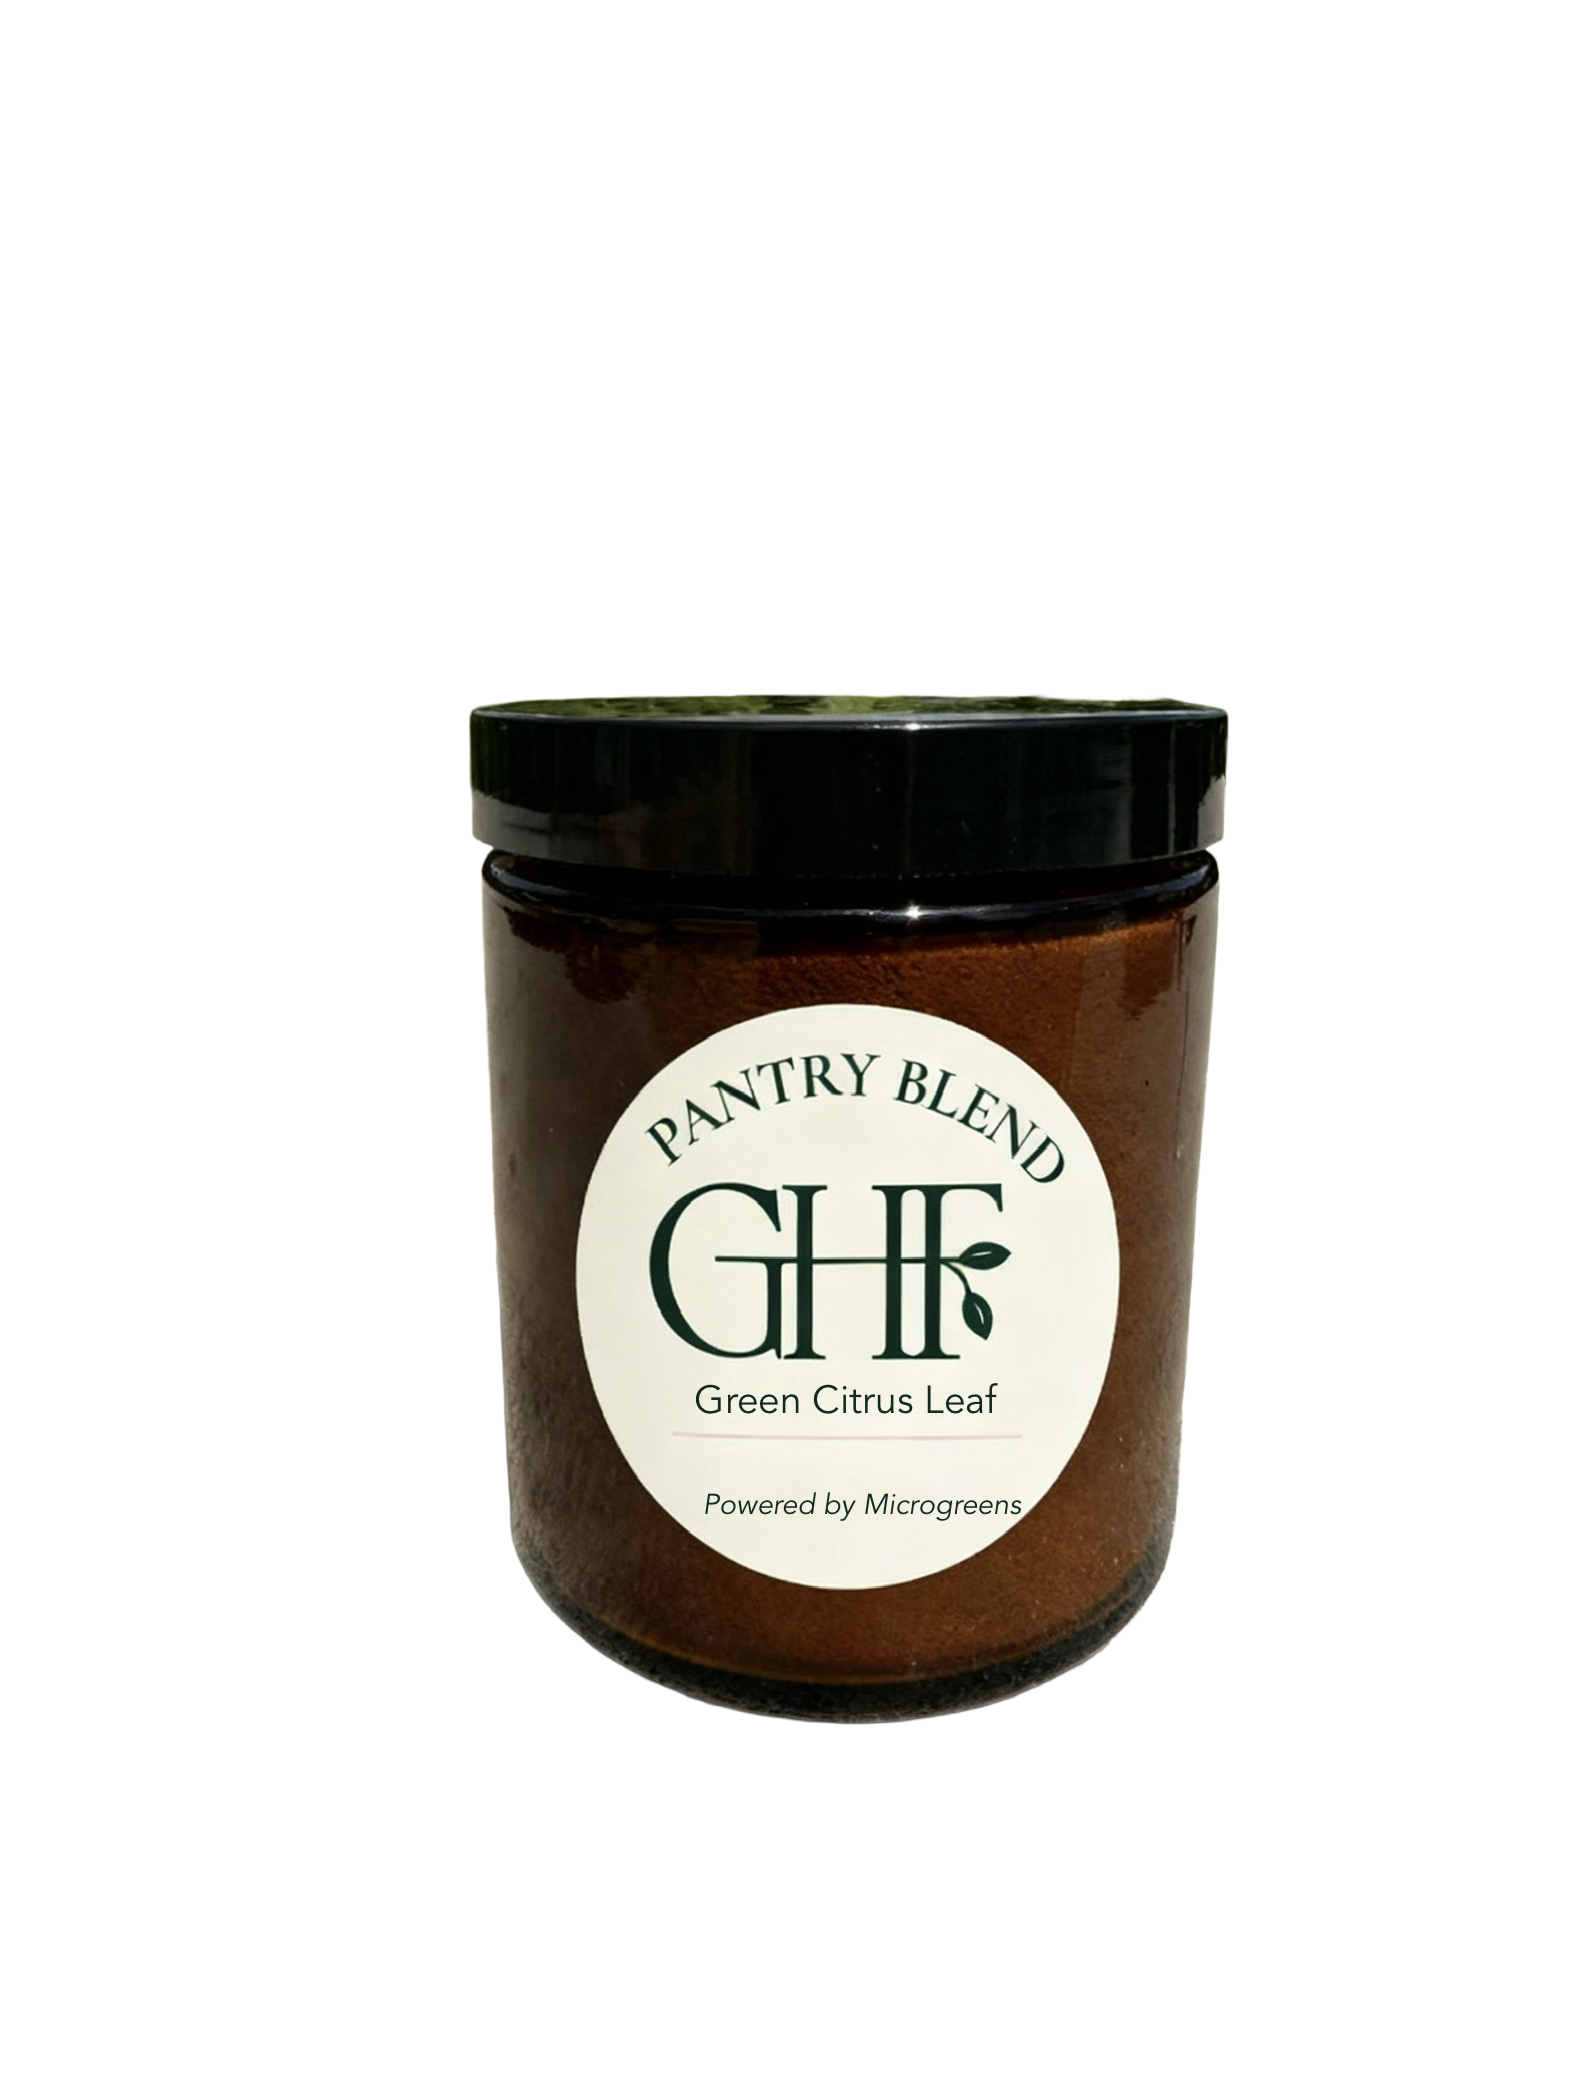
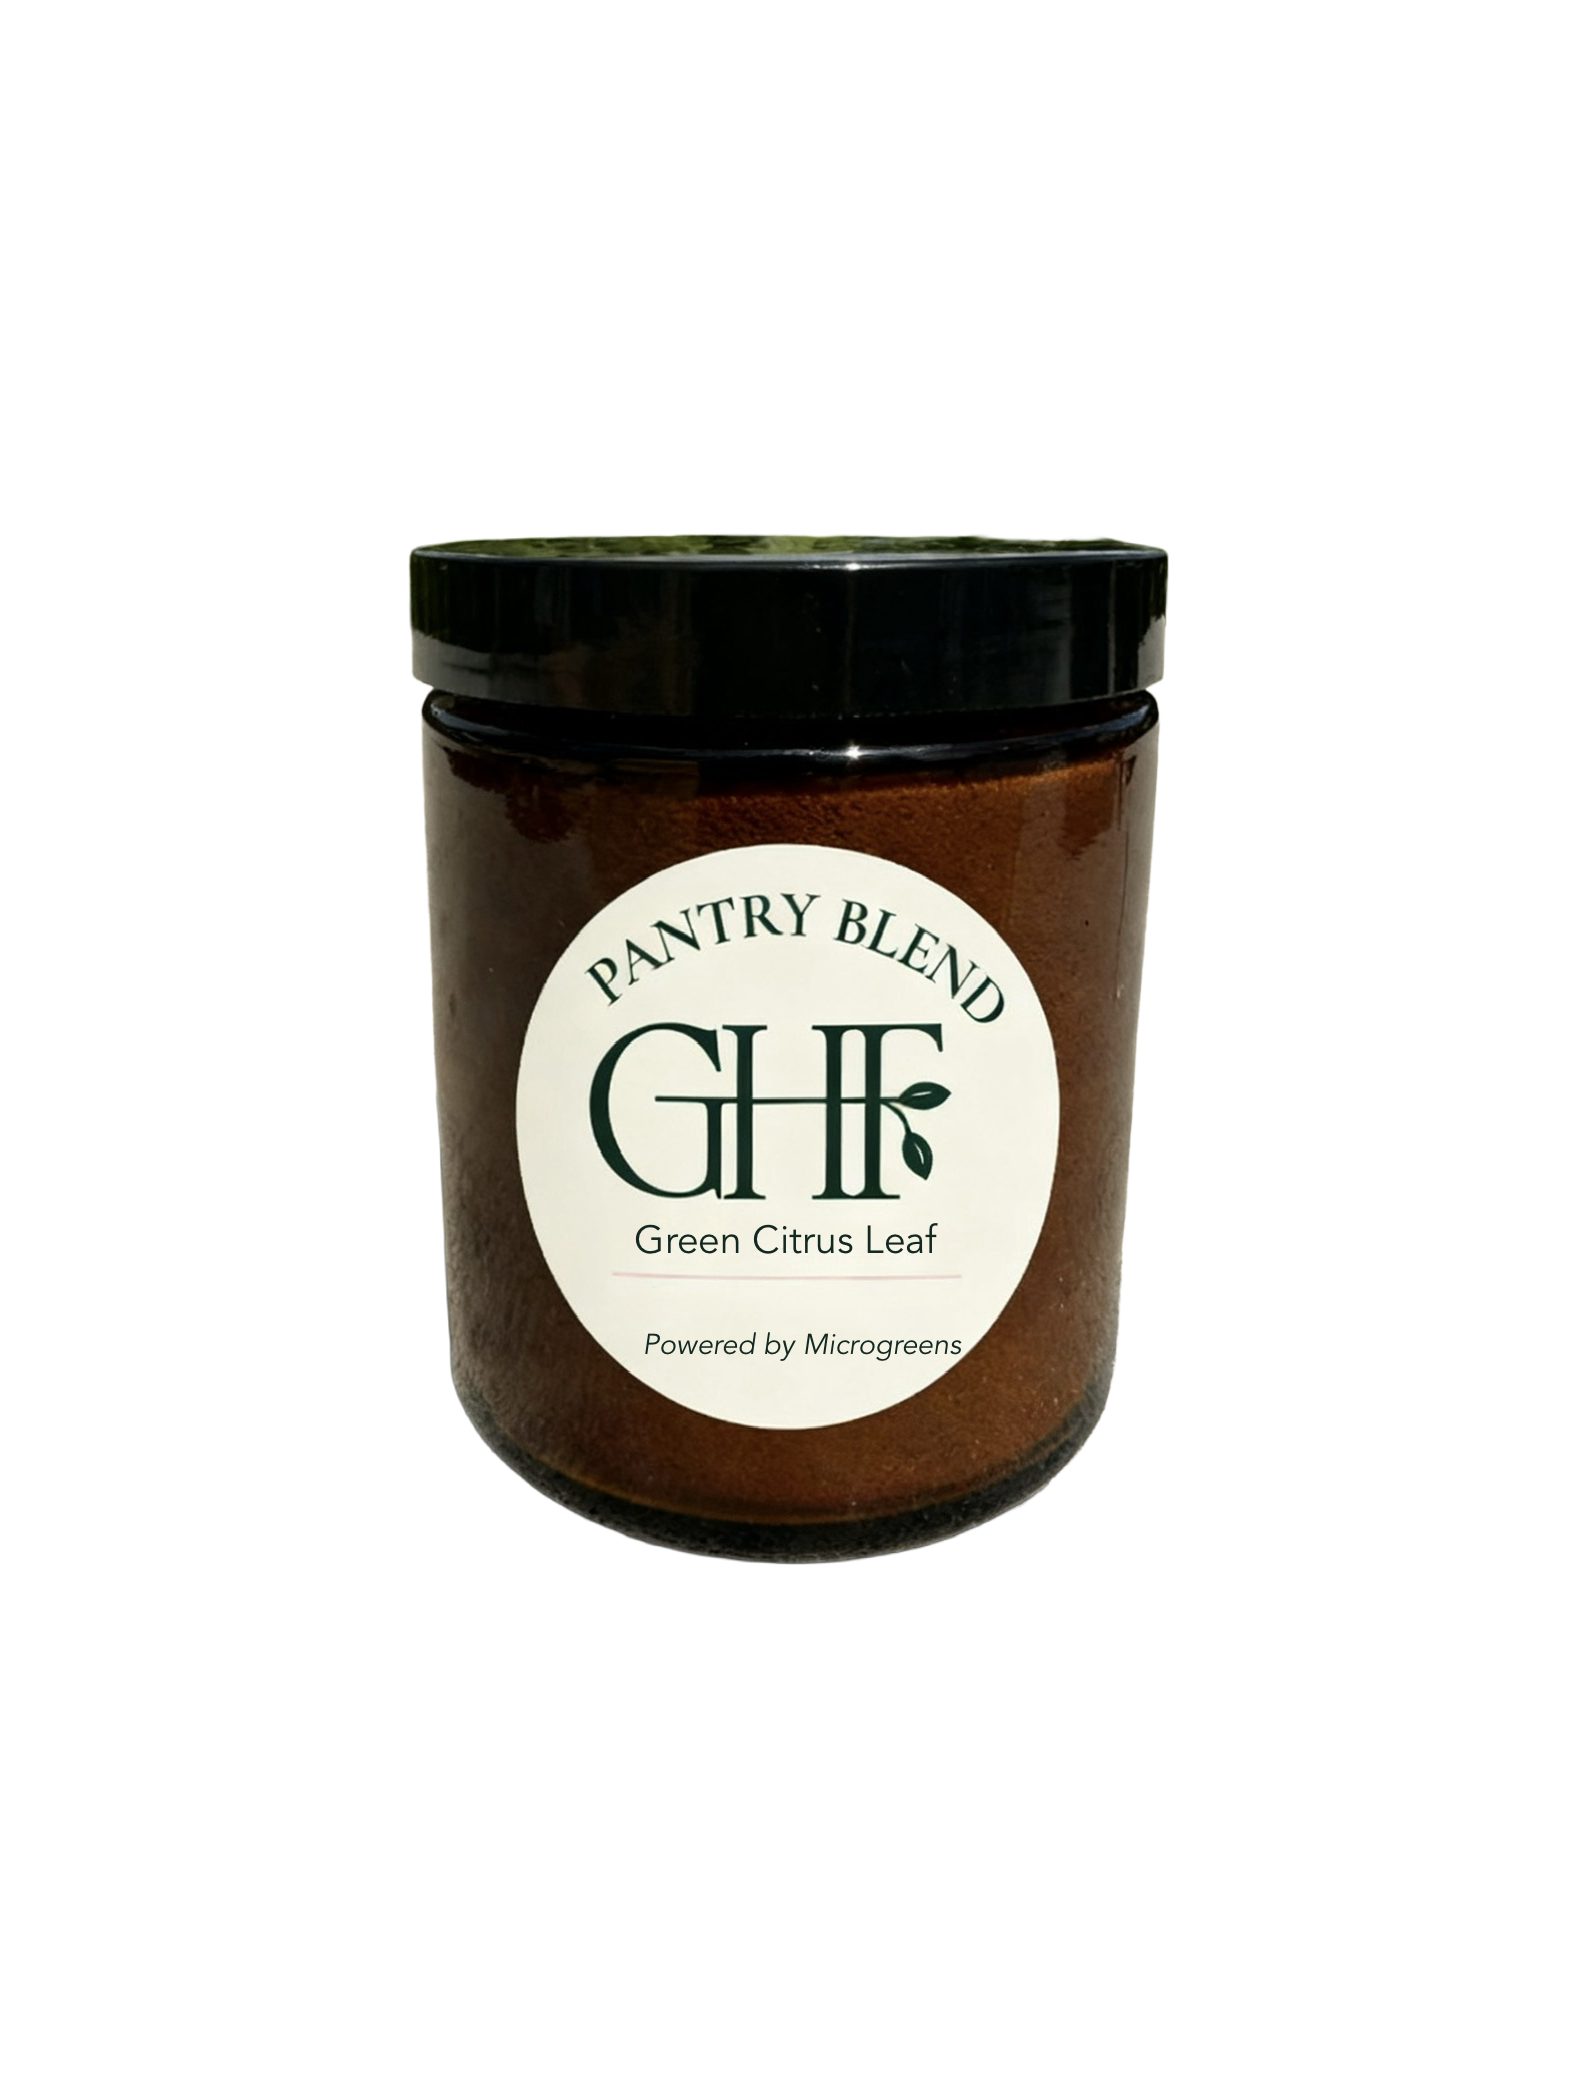
Update pantry product packshot images

Changed region(s): [[0.2486, 0.2479, 0.7768, 0.8365]]

diff --git a/src/lib/productImages.ts b/src/lib/productImages.ts
@@ -11,12 +11,12 @@ const CATEGORY_FALLBACK: Record<ProductCategory, string> = {
  * File names follow `public/images/New folder` source photos where applicable.
  */
 const LIST_IMAGE_BY_ID: Partial<Record<string, string>> = {
-  "elevated-brew-mushroom": "catalog/products/elevated-brew-mushroom.jpg",
-  "green-leaf": "catalog/products/green-leaf.jpg",
-  "berry-gut-glow": "catalog/products/berry-gut-glow.jpg",
-  "matcha-revival": "catalog/products/matcha-revival.jpg",
-  "golden-calm": "catalog/products/golden_calm_tea.jpg",
-  "lemon-zest": "catalog/products/lemon-zest.jpg",
+  "elevated-brew-mushroom": "catalog/products/elevated_brew_product_pic.jpg",
+  "green-leaf": "catalog/products/green_citrus_product_pic.PNG",
+  "berry-gut-glow": "catalog/products/strawberry_rose_product_pic.jpg",
+  "matcha-revival": "catalog/products/matcha_revival_product_pic.PNG",
+  "golden-calm": "catalog/products/golden_calm_product_pic.jpg",
+  "lemon-zest": "catalog/products/blue_lemon_product_pic.PNG",
   "medi-green-salt": "catalog/products/medi-green-salt.jpg",
   "garden-luxe-ranch": "catalog/products/garden-luxe-ranch.jpg",
   "salsa-verde-zest": "catalog/products/salsa-verde-zest.jpg",
@@ -32,7 +32,20 @@ const LIST_IMAGE_BY_ID: Partial<Record<string, string>> = {
   "fresh-baby-kale": "catalog/products/fresh-baby-kale.jpg",
 };
 
+const PACKSHOT_IMAGE_IDS = new Set([
+  "elevated-brew-mushroom",
+  "green-leaf",
+  "berry-gut-glow",
+  "matcha-revival",
+  "golden-calm",
+  "lemon-zest",
+]);
+
 /** Relative path under `public/images/` for list/detail hero. */
 export function getProductListImage(product: Product): string {
   return LIST_IMAGE_BY_ID[product.id] ?? CATEGORY_FALLBACK[product.category];
+}
+
+export function isProductPackshot(product: Product): boolean {
+  return PACKSHOT_IMAGE_IDS.has(product.id);
 }

diff --git a/src/components/shop/ProductDetailModal.tsx b/src/components/shop/ProductDetailModal.tsx
@@ -7,7 +7,7 @@ import { Button } from "../Button";
 import { PlaceholderImage } from "../PlaceholderImage";
 import { FreshProductInquiryForm } from "./FreshProductInquiryForm";
 import { siteImage } from "../../lib/images";
-import { getProductListImage } from "../../lib/productImages";
+import { getProductListImage, isProductPackshot } from "../../lib/productImages";
 import {
   getOneTimePresentation,
   getSubscriptionPresentation,
@@ -97,6 +97,7 @@ export function ProductDetailModal({ product, onClose }: Props) {
 
   const heroPath = product ? getProductListImage(product) : null;
   const heroUrl = heroPath ? siteImage(heroPath) : null;
+  const heroIsPackshot = product ? isProductPackshot(product) : false;
   const oneTime = product
     ? getOneTimePresentation(product, stripePricesState)
     : null;
@@ -142,10 +143,16 @@ export function ProductDetailModal({ product, onClose }: Props) {
           </header>
 
           <div className="product-modal__body">
-            <div className="product-modal__hero">
+            <div
+              className={`product-modal__hero${
+                heroIsPackshot ? " product-modal__hero--packshot" : ""
+              }`}
+            >
               {heroUrl ? (
                 <img
-                  className="product-modal__hero-img"
+                  className={`product-modal__hero-img${
+                    heroIsPackshot ? " product-modal__hero-img--contain" : ""
+                  }`}
                   src={heroUrl}
                   alt={`${titleLine} — product photo`}
                   loading="lazy"

diff --git a/src/components/sections/ProductCard.tsx b/src/components/sections/ProductCard.tsx
@@ -14,6 +14,8 @@ type Props = {
   imageSrc?: string;
   /** Prefer top of image in frame (e.g. jar lids) */
   imageAlignTop?: boolean;
+  /** Show full white-background product image without lifestyle cropping. */
+  imageContain?: boolean;
   onOpenDetails?: () => void;
 };
 
@@ -28,6 +30,7 @@ export function ProductCard({
   servingLine,
   imageSrc,
   imageAlignTop,
+  imageContain,
   onOpenDetails,
 }: Props) {
   const primaryPrice = priceOneTime ?? price ?? "";
@@ -41,7 +44,9 @@ export function ProductCard({
       <div
         className={
           imageSrc
-            ? "product-card__visual product-card__visual--photo"
+            ? `product-card__visual product-card__visual--photo${
+                imageContain ? " product-card__visual--packshot" : ""
+              }`
             : "product-card__visual"
         }
       >
@@ -49,11 +54,9 @@ export function ProductCard({
           <img
             src={imageSrc}
             alt={`${name} — product photo`}
-            className={
-              imageAlignTop
-                ? "product-card__photo product-card__photo--top"
-                : "product-card__photo"
-            }
+            className={`product-card__photo${
+              imageAlignTop ? " product-card__photo--top" : ""
+            }${imageContain ? " product-card__photo--contain" : ""}`}
             loading="lazy"
             decoding="async"
           />

diff --git a/src/pages/ShopPage.tsx b/src/pages/ShopPage.tsx
@@ -14,7 +14,7 @@ import { useStripePricesFetchState } from "../context/useStripePricesFetchState"
 import { canPurchaseSubscription } from "../lib/productPricing";
 import { getOneTimePresentation } from "../lib/stripePricePresentation";
 import { useProductModal } from "../context/useProductModal";
-import { getProductListImage } from "../lib/productImages";
+import { getProductListImage, isProductPackshot } from "../lib/productImages";
 import "./ShopPage.css";
 
 const LEGACY_FILTER_TO_CATEGORY: Record<string, ShopCategoryId> = {
@@ -472,6 +472,7 @@ export function ShopPage() {
                 imageAlignTop={
                   item.category === "seasoning" || item.id === "microgreens-full-tray"
                 }
+                imageContain={isProductPackshot(item)}
                 onOpenDetails={() => openProductById(item.id)}
               />
             ))}

diff --git a/src/components/shop/ProductDetailModal.css b/src/components/shop/ProductDetailModal.css
@@ -80,6 +80,10 @@
   background: var(--color-warm-neutral);
 }
 
+.product-modal__hero--packshot {
+  background: #fff;
+}
+
 .product-modal__hero .placeholder-image {
   min-height: 12rem;
   border-radius: 0;
@@ -91,6 +95,12 @@
   width: 100%;
   max-height: 14rem;
   object-fit: cover;
+  object-position: center;
+}
+
+.product-modal__hero-img--contain {
+  height: 14rem;
+  object-fit: contain;
 }
 
 .product-modal__hero-img--top {

diff --git a/src/components/sections/ProductCard.css b/src/components/sections/ProductCard.css
@@ -50,11 +50,20 @@
   background: var(--color-warm-neutral);
 }
 
+.product-card__visual--packshot {
+  background: #fff;
+}
+
 .product-card__photo {
   width: 100%;
   height: 100%;
   object-fit: cover;
+  object-position: center;
   display: block;
+}
+
+.product-card__photo--contain {
+  object-fit: contain;
 }
 
 .product-card__photo--top {
